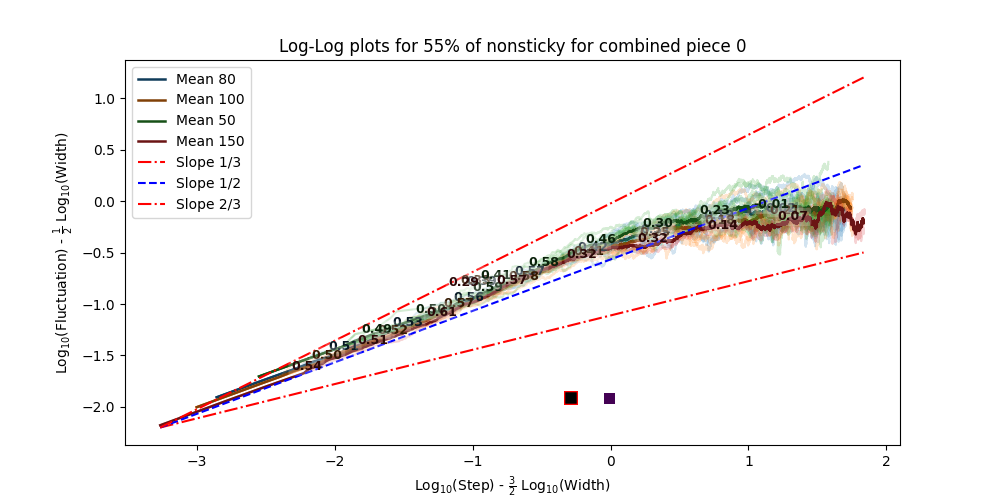
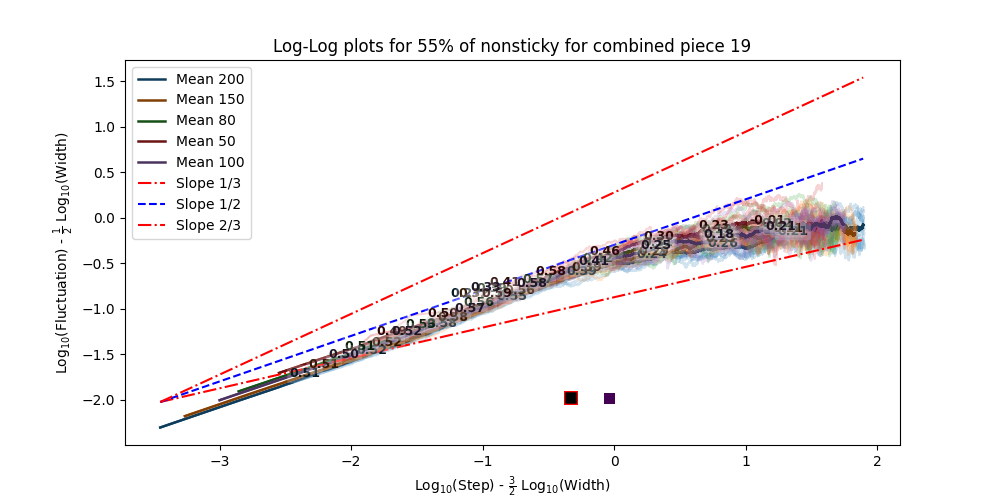
plot fluctuations

diff --git a/Experiments/exp13/plotfluctuations.py b/Experiments/exp13/plotfluctuations.py
@@ -32,9 +32,9 @@ def plotfluctuations(with_ci: bool = False) -> None:
     confidence = 0.95
     for stick in stickiness:
         # Load the fluctuations_dict
-        fluctuations_dict = joblib.load(f"fluctuations_{stick}_dict.joblib")
+        fluctuations_dict = joblib.load("fluctuations_dict.joblib")
 
-        for type_value, widths in fluctuations_dict.items():
+        for percentage, widths in fluctuations_dict.items():
             plt.figure(figsize=(10, 6))  # Create a new figure for each type_value
             fig, ax = plt.subplots(figsize=(10, 5))  # Use fig for the figure reference
 
@@ -99,11 +99,11 @@ def plotfluctuations(with_ci: bool = False) -> None:
 
             plt.xlabel('step or time')
             plt.ylabel('fluctuation')
-            plt.title(f'Fluctuations{" with 95% CI" if with_ci else ""} for {stick} {type_value.replace("_", " ")}')
+            plt.title(f'Fluctuations{" with 95% CI" if with_ci else ""} for {percentage}% of nonsticky for combined piece 19')
             plt.legend(loc='upper left')
 
             # Optionally add images
-            images = obtain_images(type_value, stick)
+            images = obtain_images("piece_19", "combined")
             n_images = len(images)
 
             if n_images < 10:
@@ -119,7 +119,7 @@ def plotfluctuations(with_ci: bool = False) -> None:
                     ab = AnnotationBbox(imagebox, (x_position, 0.12), frameon=False, xycoords='axes fraction')
                     ax.add_artist(ab)
 
-            filename = f"combined_original{'_CI' if with_ci else ''}_{stick}_{type_value}.png"
+            filename = f"combined_original{'_CI' if with_ci else ''}_combined_percentage_{percentage}.png"
             plt.savefig(filename)
             plt.close()
 

diff --git a/Experiments/exp13/loglogplot_stat.py b/Experiments/exp13/loglogplot_stat.py
@@ -174,7 +174,7 @@ def loglogplot_stat(number_of_segments: int = 10, with_ci: bool = False) -> None
 
         plt.xlabel(r'Log$_{10}$(Step) - $\frac{3}{2}$ Log$_{10}$(Width)')
         plt.ylabel(r'Log$_{10}$(Fluctuation) - $\frac{1}{2}$ Log$_{10}$(Width)')
-        plt.title(f'Log-Log plots{" with 95% CI" if with_ci else ""} for {percentage}% of nonsticky for combined piece 0')
+        plt.title(f'Log-Log plots{" with 95% CI" if with_ci else ""} for {percentage}% of nonsticky for combined piece 19')
         plt.legend(loc='upper left')
 
         # Optionally add images
